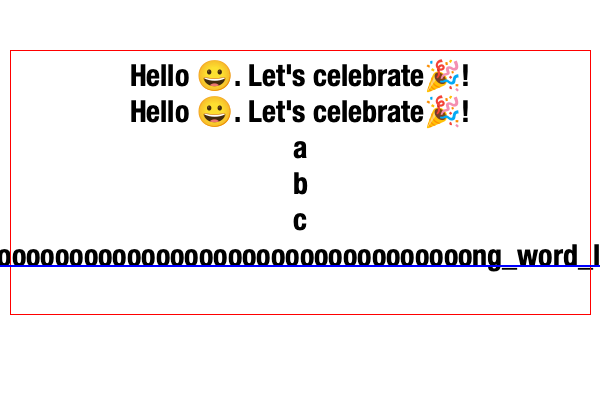
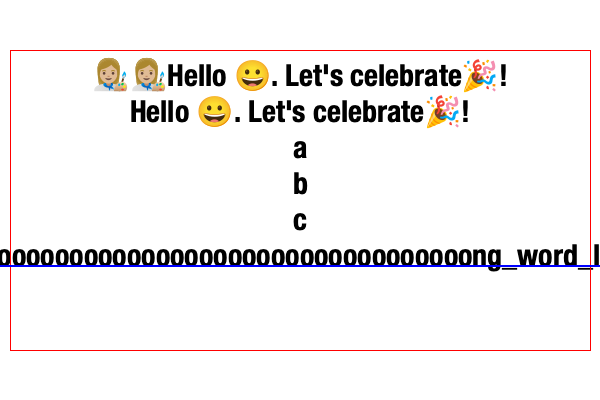
Handle ZWJ Emojis

Changed region(s): [[0.15, 0.15, 0.87, 0.24], [0.96, 0.78, 0.99, 0.81]]

diff --git a/render_text.py b/render_text.py
@@ -1,6 +1,7 @@
 import re
-from typing import Tuple, List, Literal, Generator, Iterable, T
+from typing import Tuple, List, Literal, Generator, Iterable, T, Dict
 
+import emoji
 import skia
 
 
@@ -27,31 +28,60 @@ def render_text(text: str,
                 fonts: Iterable[skia.Font],
                 align: Literal['left', 'center', 'right'] = 'left') -> Tuple[bytes, float]:
 
+    default_font = next(iter(fonts))
+    # We need some emoji to compute the width
+    always_present_emoji = "😀"
+
+    # Detect multi-character emoji
+    # and handle them separately
+    emoji_start: Dict[int, int] = {}
+    emoji_set = set()
+    emoji_font = default_font
+    for token in iter(emoji.analyze(text)):
+        if len(token.chars) > 1:
+            emoji_set.add(token.chars)
+            emoji_start[token.value.start] = len(token.chars)
+            # print(token.chars, len(token.chars), token.value.start)
+    if len(emoji_set) > 0:
+        for font in fonts:
+            if font.unicharToGlyph(ord(always_present_emoji)) != 0:
+                emoji_font = font
+                break
+
+    def measure_width(text: str, font: skia.Font) -> float:
+        is_emoji = text in emoji_set
+        w = font.measureText(always_present_emoji) if is_emoji else font.measureText(text)
+        return w
+
     # Split text into same-font runs
     runs: List[Tuple[str, skia.Font]] = []
-    default_font = next(iter(fonts))
-    for char in text:
-        # Default to first font
-        curr_font = default_font
-        for font in fonts:
-            if font.unicharToGlyph(ord(char)) != 0:
-                curr_font = font
-                break
-        prev_run = runs[-1] if runs else None
-        if not prev_run or prev_run[1] != curr_font or prev_run[0][-1] == '\n':
-            # New run
-            runs.append((char, curr_font))
+    text_len = len(text)
+    i = 0
+    while i < text_len:
+        if i in emoji_start.keys():
+            emoji_len = emoji_start[i]
+            runs.append((text[i:i+emoji_len], emoji_font))
+            i += emoji_len
         else:
-            # Append to prev run
-            runs[-1] = runs[-1][0] + char, runs[-1][1]
+            char = text[i]
+            # Default to first font
+            curr_font = default_font
+            for font in fonts:
+                if font.unicharToGlyph(ord(char)) != 0:
+                    curr_font = font
+                    break
+            prev_run = runs[-1] if runs else None
+            if not prev_run or prev_run[1] != curr_font or prev_run[0][-1] == '\n':
+                # New run
+                runs.append((char, curr_font))
+            else:
+                # Append to prev run
+                runs[-1] = runs[-1][0] + char, runs[-1][1]
+            i += 1
 
     # Compute bbox
-    line_height = default_font.getSpacing()
     x_start = margins[0]
-    # TODO: better offset?
-    y_start = margins[1] + line_height
     max_width = canvas_sz[0] - x_start - margins[2]
-    max_height = canvas_sz[1] - y_start - margins[3]
 
     # Split text into lines
     lines: List[List[Tuple[str, skia.Font]]] = [[]]
@@ -72,15 +102,15 @@ def render_text(text: str,
                 word = word[1:]
 
             curr_line = lines[-1]
-            word_width = font.measureText(word.rstrip())
+            word_width = measure_width(word.rstrip(), font)
             if not new_line_before and (len(curr_line) == 0 or word_width + curr_line_width <= max_width):
                 # Continue prev line
                 curr_line.append((word, font))
-                curr_line_width += font.measureText(word)
+                curr_line_width += measure_width(word, font)
             else:
                 # Start new line
                 lines.append([(word, font)])
-                curr_line_width = font.measureText(word)
+                curr_line_width = measure_width(word, font)
             if new_line_after:
                 lines.append([])
                 curr_line_width = 0
@@ -95,11 +125,19 @@ def render_text(text: str,
     if len(lines) > 0 and len(lines[-1]) == 0:
         lines = lines[:-1]
 
+    # TODO: better offset?
+    y_start = margins[1]
+    max_height = canvas_sz[1] - y_start - margins[3]
+
     # Print each line
+    paint = skia.Paint(AntiAlias=True, Color=skia.ColorBLACK)
     y_offset = y_start
     for i, line in enumerate(lines):
-        print(f"Line {i}", "".join([w for w, f in line]))
-        line_width = sum([f.measureText(t) for t, f in line])
+        line_width = sum([measure_width(t, f) for t, f in line])
+        line_height = max([f.getSpacing() for _, f in line])
+        y_offset += line_height
+
+        print(f"Line {i}", "".join([w for w, f in line]), line_width)
         if align == 'left':
             x_offset = x_start
         elif align == 'center':
@@ -107,10 +145,15 @@ def render_text(text: str,
         else:
             x_offset = max_width - line_width
         for run_text, font in line:
-            builder.allocRun(run_text, font, x_offset, y_offset)
-            x_offset += font.measureText(run_text)
-        y_offset += line_height
-    y_offset -= line_height
+            is_emoji = run_text in emoji_set
+            if is_emoji:
+                blob = skia.TextBlob.MakeFromShapedText(run_text, font)
+                descent = font.getMetrics().fDescent
+                canvas.drawTextBlob(blob, x_offset, y_offset - line_height + descent, paint)
+                x_offset += measure_width(run_text, font)
+            else:
+                builder.allocRun(run_text, font, x_offset, y_offset)
+                x_offset += measure_width(run_text, font)
 
     # Draw the built text blob
     text_blob = builder.make()
@@ -132,7 +175,6 @@ def render_text(text: str,
 
     # Save output to PNG
     image = surface.makeImageSnapshot()
-    print("Rendered text saved as 'output.png'")
 
     # You may use y_bottom to detect vertical overflow
     y_bottom = y_offset + margins[3]
@@ -141,7 +183,8 @@ def render_text(text: str,
 
 if __name__ == "__main__":
     long_word = "really_looooooooooooooooooooooooooooooooooong_word_long_word"
-    text = f"Hello 😀. Let's celebrate🎉!\nHello 😀. Let's celebrate🎉!\n\na\nb\nc\n{long_word}"
+    painter = "👩🏼🎨"
+    text = f"{painter}{painter}\nHello 😀. Let's celebrate🎉!\nHello 😀. Let's celebrate🎉!\n\na\nb\nc\n{long_word}"
     # text = "ABC" # default font only
     font_size = 30
 
